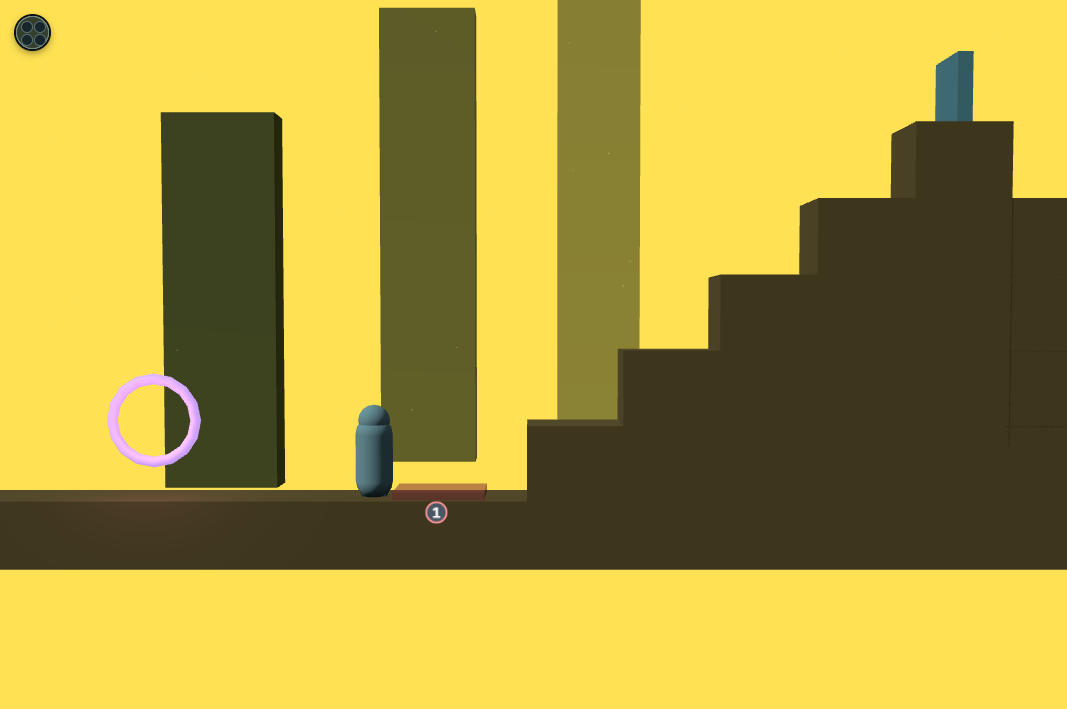
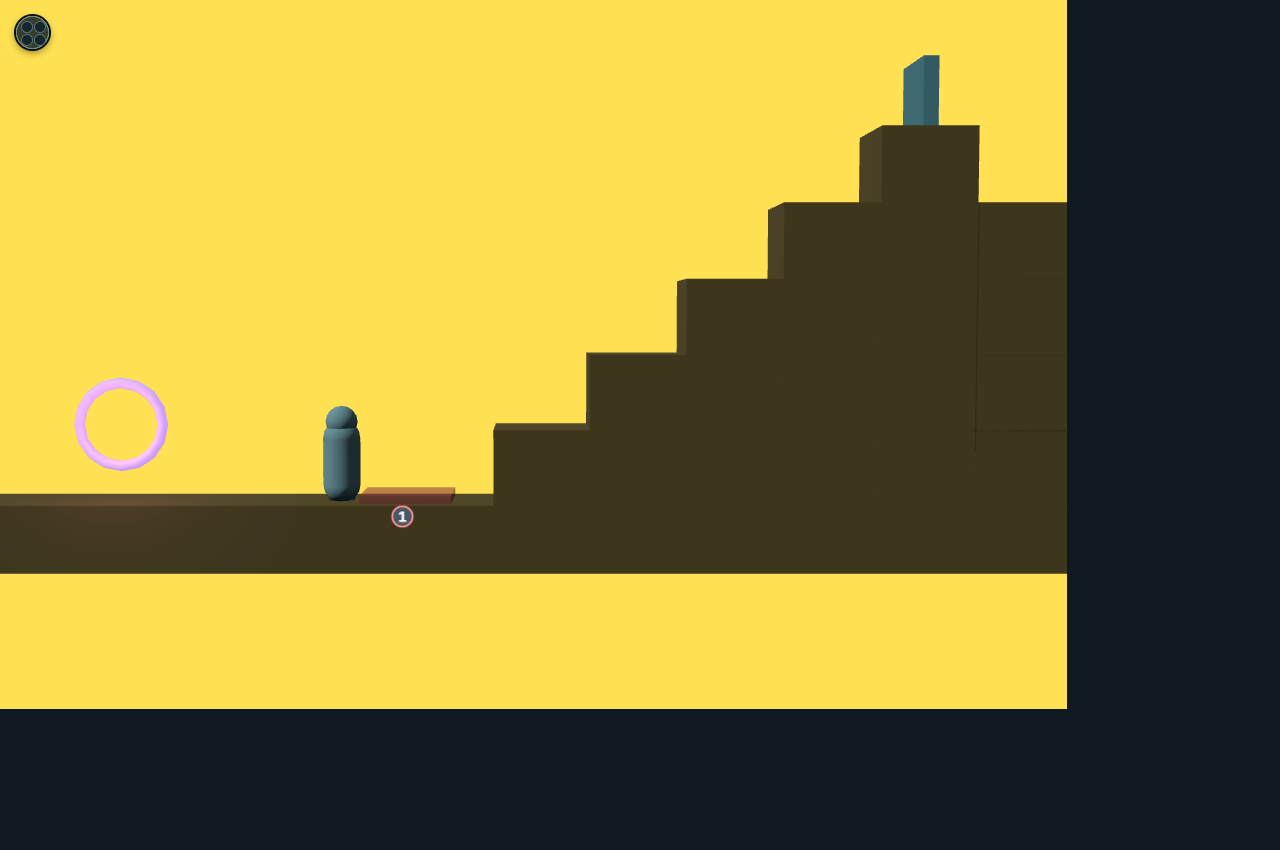
Simplify Summer backdrop and refresh thumbnail

diff --git a/src/chapters/summer.js b/src/chapters/summer.js
@@ -35,7 +35,7 @@ export const summer = {
     { x: -9, y: 3.85, w: 1.4, h: 1.1 },
     { x: -10.4, y: 4.95, w: 1.4, h: 1.1 },
   ],
-  backgrounds: [-38, -30, -22, -15, -7, 0, 8, 16, 24].map((x, index) => ({ x, h: 7 + (index % 3) * 3 })),
+  backgrounds: [],
   checkpoints: [{ x: -19, y: 2 }, { x: -5, y: 2 }, { x: 8.6, y: 2 }],
   boxInteractions: { carry: true, push: false },
   box: { x: 4.7, y: .5 },
